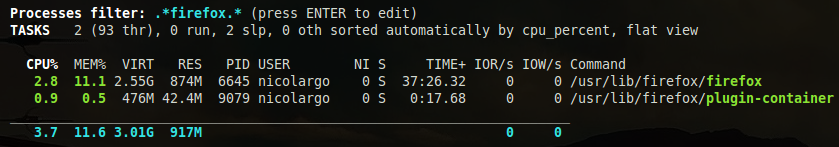
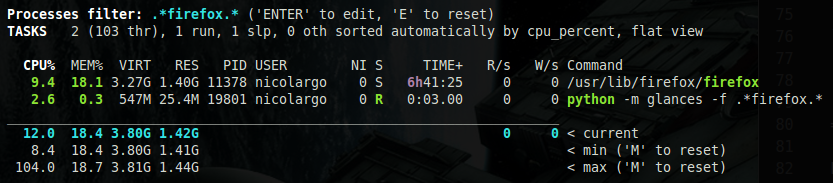
Filter processes by others stats (username) #748

diff --git a/glances/filter.py b/glances/filter.py
@@ -30,49 +30,116 @@ class GlancesFilter(object):
     >>> f.filter = '.*python.*'
     >>> f.filter
     '.*python.*'
+    >>> f.key
+    None
+    >>> f.filter = 'user:nicolargo'
+    >>> f.filter
+    'nicolargo'
+    >>> f.key
+    'user'
+    >>> f.filter = 'username:.*nico.*'
+    >>> f.filter
+    '.*nico.*'
+    >>> f.key
+    'username'
     """
 
     def __init__(self):
         # Filter entered by the user (string)
+        self._filter_input = None
+        # Filter to apply
         self._filter = None
         # Filter regular expression
         self._filter_re = None
+        # Dict key where the filter should be applied
+        # Default is None: search on command line and process name
+        self._filter_key = None
+
+    @property
+    def filter_input(self):
+        """Return the filter given by the user (as a sting)"""
+        return self._filter_input
 
     @property
     def filter(self):
-        """Return the filter (as a sting)"""
+        """Return the current filter to be applied"""
         return self._filter
 
     @filter.setter
     def filter(self, value):
-        """Set the filter (as a sting) and compute the regular expression"""
-        self._filter = value
-        self._filter_re = None
+        """Set the filter (as a sting) and compute the regular expression
+        A filter could be one of the following:
+        - python > Process name of cmd start with python
+        - .*python.* > Process name of cmd contain python
+        - username:nicolargo > Process of nicolargo user
+        """
+        self._filter_input = value
+        if value is None:
+            self._filter = None
+            self._filter_key = None
+        else:
+            new_filter = value.split(':')
+            if len(new_filter) == 1:
+                self._filter = new_filter[0]
+                self._filter_key = None
+            else:
+                self._filter = new_filter[1]
+                self._filter_key = new_filter[0]
 
+        self._filter_re = None
         if self.filter is not None:
-            logger.info("Set filter to {0}".format(self.filter))
+            logger.info("Set filter to {0} on key {1}".format(self.filter, self.filter_key))
             # Compute the regular expression
             try:
                 self._filter_re = re.compile(self.filter)
                 logger.debug("Filter regex compilation OK: {0}".format(self.filter))
             except Exception as e:
                 logger.error("Cannot compile filter regex: {0} ({1})".format(self.filter, e))
+                self._filter = None
+                self._filter_re = None
+                self._filter_key = None
 
     @property
     def filter_re(self):
         """Return the filter regular expression"""
         return self._filter_re
 
-    def is_filtered(self, process, key='cmdline'):
+    @property
+    def filter_key(self):
+        """key where the filter should be applied"""
+        return self._filter_key
+
+    def is_filtered(self, process):
         """Return True if the process item match the current filter
         The proces item is a dict.
-        The filter will be applyed on the process[key] (command line by default)
         """
         if self.filter is None:
             # No filter => Not filtered
             return False
+
+        if self.filter_key is None:
+            # Apply filter on command line and process name
+            return self._is_process_filtered(process, key='cmdline') and self._is_process_filtered(process, key='name')
+        else:
+            # Apply filter on <key>
+            return self._is_process_filtered(process)
+
+    def _is_process_filtered(self, process, key=None):
+        """Return True if the process[key] should be filtered according to the current filter"""
+        if key is None:
+            key = self.filter_key
         try:
-            return self._filter_re.match(' '.join(process[key])) is None
+            # If the item process[key] is a list, convert it to a string
+            # in order to match it with the current regular expression
+            if isinstance(process[key], list):
+                value = ' '.join(process[key])
+            else:
+                value = process[key]
+        except KeyError:
+            # If the key did not exist
+            return False
+        try:
+            return self._filter_re.match(value) is None
         except AttributeError:
             #  Filter processes crashs with a bad regular expression pattern (issue #665)
             return False

diff --git a/glances/processes.py b/glances/processes.py
@@ -117,14 +117,24 @@ class GlancesProcesses(object):
         self._max_processes = value
 
     @property
+    def process_filter_input(self):
+        """Get the process filter (given by the user)."""
+        return self._filter.filter_input
+
+    @property
     def process_filter(self):
-        """Get the process filter."""
+        """Get the process filter (current apply filter)."""
         return self._filter.filter
 
     @process_filter.setter
     def process_filter(self, value):
         """Set the process filter."""
         self._filter.filter = value
+
+    @property
+    def process_filter_key(self):
+        """Get the process filter key."""
+        return self._filter.filter_key
 
     @property
     def process_filter_re(self):
@@ -398,7 +408,7 @@ class GlancesProcesses(object):
                OSX and s['name'] == 'kernel_task'):
                 continue
             # Continue to the next process if it has to be filtered
-            if s is None or (self._filter.is_filtered(s, 'cmdline') and self._filter.is_filtered(s, 'name')):
+            if s is None or self._filter.is_filtered(s):
                 excluded_processes.add(proc)
                 continue
 

diff --git a/glances/outputs/glances_curses.py b/glances/outputs/glances_curses.py
@@ -781,8 +781,18 @@ class _GlancesCurses(object):
         # Only in standalone mode (cs_status is None)
         if self.edit_filter and cs_status is None:
             new_filter = self.display_popup(
-                'Process filter pattern: ', is_input=True,
-                input_value=glances_processes.process_filter)
+                'Process filter pattern: \n' +
+                '\n' +
+                'Examples:\n' +
+                '- python\n' +
+                '- .*python.*\n' +
+                '- \/usr\/lib.*' +
+                '- name:.*nautilus.*\n' +
+                '- cmdline:.*glances.*\n' +
+                '- username:nicolargo\n' +
+                '- username:^root        ',
+                is_input=True,
+                input_value=glances_processes.process_filter_input)
             glances_processes.process_filter = new_filter
         elif self.edit_filter and cs_status != 'None':
             self.display_popup('Process filter only available in standalone mode')

diff --git a/glances/plugins/glances_processcount.py b/glances/plugins/glances_processcount.py
@@ -84,6 +84,8 @@ class Plugin(GlancesPlugin):
             msg = 'Processes filter:'
             ret.append(self.curse_add_line(msg, "TITLE"))
             msg = ' {0} '.format(glances_processes.process_filter)
+            if glances_processes.process_filter_key is not None:
+                msg += 'on column {0} '.format(glances_processes.process_filter_key)
             ret.append(self.curse_add_line(msg, "FILTER"))
             msg = '(\'ENTER\' to edit, \'E\' to reset)'
             ret.append(self.curse_add_line(msg))

diff --git a/docs/aoa/ps.rst b/docs/aoa/ps.rst
@@ -79,6 +79,18 @@ Columns display
                           pressing on the ``'/'`` key
 ========================= ==============================================
 
+Process filtering
+-----------------
+
+It's possible to filter the processes list using the ``ENTER`` key.
+
+Filter syntax is the following (examples):
+
+- python > Filter processes name or command line starting with *python* (regexp)
+- .*python.* > Filter processes name or command line containing *python* (regexp)
+- username:nicolargo > Processes of nicolargo user (key:regexp)
+- cmdline:\/usr\/bin.* > Processes starting by */usr/bin*
+
 Extended info
 -------------
 
